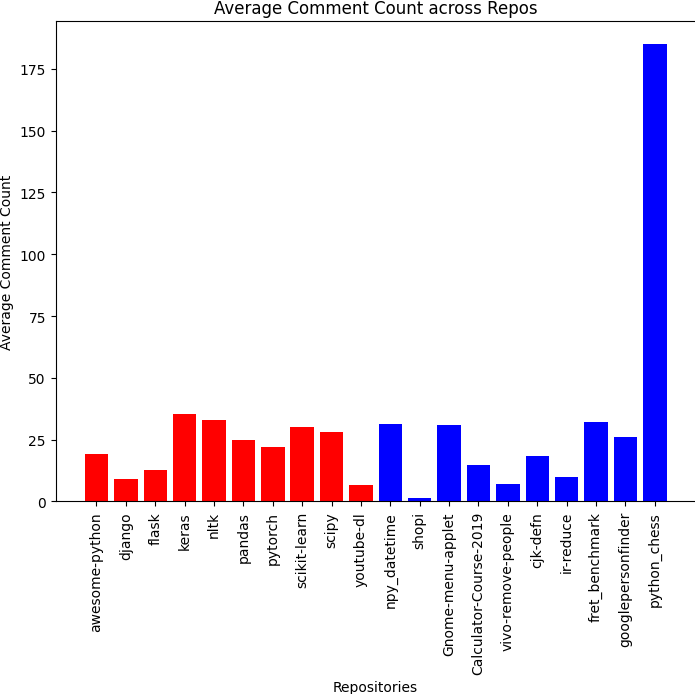
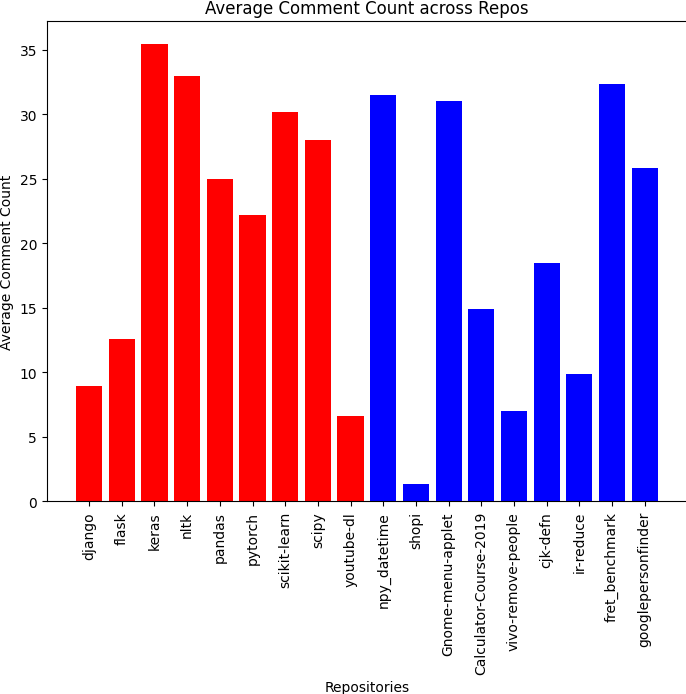
som graphs

Changed region(s): [[0.0306, 0.0303, 0.9796, 0.9683], [0.3061, 0.0, 0.7653, 0.0303], [0.4592, 0.9683, 0.6122, 1.0]]

diff --git a/github-repo-analysis/github_gloss.py b/github-repo-analysis/github_gloss.py
@@ -17,28 +17,38 @@ test_code = "def function_name(par_1, parTwo, camelCase)\n\t\"\"\"\n\tdocstring 
 # Use AST package for better parsing! 
 
 def count_casing(input_code):
-  case_dict = {"camelCase":0,
-               "snake_case":0}
-  camel = r"[a-z]+([A-Z][a-z0-9]+)+"
-  snake = r"[a-z]+(_[a-z0-9]+)+"
-  input_code = input_code.replace("("," ")
-  input_code = input_code.replace(")"," ")
-  for token in input_code.split():
-    if re.match(camel, token):
-      case_dict["camelCase"] += 1
-    elif re.match(snake, token):
-      case_dict["snake_case"] += 1
-  return case_dict
+    case_dict = {"lowerCamelCase": 0, "UpperCamelCase": 0, "snake_case": 0}
+    lower_camel = r"[a-z]+([A-Z][a-z0-9]+)+"
+    upper_camel = r"[A-Z][a-z]+([A-Z][a-z0-9]+)+"
+    snake = r"[a-z]+(_[a-z0-9]+)+"
+    input_code = input_code.replace("(", " ")
+    input_code = input_code.replace(")", " ")
+    for token in input_code.split():
+        if re.match(lower_camel, token):
+            case_dict["lowerCamelCase"] += 1
+        elif re.match(upper_camel, token):
+            case_dict["UpperCamelCase"] += 1
+        elif re.match(snake, token):
+            case_dict["snake_case"] += 1
+    return case_dict
+
 
 def count_docstrings(input_code):
-  docstr = r"\"\"\"[\s\S]*?\"\"\""
-  search = re.findall(docstr, input_code)
-  return search
+    docstr = r"\"\"\"[\s\S]*?\"\"\"|\'\'\'[\s\S]*?\'\'\'"
+    search = re.findall(docstr, input_code)
+    doc_len = 0
+    for docstring in search:
+        doc_len += len(docstring)
+    return len(search), doc_len
+
 
 def count_comments(input_code):
-  comment = r"#.*"
-  search = re.findall(comment, input_code)
-  return search
+    comment = r"#.*"
+    search = re.findall(comment, input_code)
+    comment_len = 0
+    for comment in search:
+        comment_len += len(comment)
+    return len(search), comment_len
 
 # test the regex searching methods:
 # print(f"Casing  count: {count_casing(test_code)}")
@@ -80,20 +90,17 @@ def repo_probe(directory):
               line_count += sum([1 for _ in code.split("\n")])
 
               # calculate stats
-              comments = count_comments(code)
-              num_comments = len(comments)
-
-              docstrings = count_docstrings(code)
-              num_docstrings = len(docstrings)
+              num_comments, comments_lengths = count_comments(code)
+              num_docstrings, docstring_lengths = count_docstrings(code)
 
               if num_comments: # if there were any comments in this file; update
                 comment_count  += num_comments
-                comment_length += sum([len(com)for com in comments])/num_comments
+                comment_length += comments_lengths/num_comments
                 comment_density += num_comments / line_count
               
               if num_docstrings: 
                 docstring_count  += num_docstrings
-                docstring_length += sum([len(doc)for doc in docstrings])/num_docstrings
+                docstring_length += docstring_lengths/num_docstrings
                 docstring_density += num_docstrings / line_count
 
               eval_dict['casing_count'] += Counter(count_casing(code))
@@ -114,8 +121,9 @@ repo_evals = {}
 personal = ["npy_datetime", "shopi", "Gnome-menu-applet", "Calculator-Course-2019", "vivo-remove-people", "cjk-defn", "ir-reduce", "fret_benchmark", "googlepersonfinder", "python_chess"]
 professional =  ['awesome-python', 'django', 'flask', 'keras', 'nltk', 'pandas', 'pytorch', 'scikit-learn', 'scipy', 'youtube-dl']
 all_repos =  professional + personal
+all_repos_normal = [repo for repo in all_repos if repo not in ['awesome-python', 'python_chess'] ] 
 
-for repo in all_repos:
+for repo in all_repos_normal:
   print(f"Scanning repo {repo}...")
   path = "data/"+repo
   repo_evals[repo] = repo_probe(path)
@@ -141,5 +149,12 @@ def graph_stats(x , y, title, x_axis, y_axis, path):
 for stat in repo_evals["npy_datetime"]:
   if stat != "casing_count":
     title = " ".join(stat.split('_')).title()
-    graph_stats(all_repos, eval_df.loc[stat,], title +" across Repos", "Repositories", title, "graphs/"+stat)
+    graph_stats(all_repos_normal, eval_df.loc[stat,], title +" across Repos", "Repositories", title, "graphs/"+stat)
 
+snake_case = [lookup['snake_case'] for lookup in eval_df.loc['casing_count']]
+lower_camel_case = [lookup['lowerCamelCase'] for lookup in eval_df.loc['casing_count']]
+upper_camel_case = [lookup['UpperCamelCase'] for lookup in eval_df.loc['casing_count']]
+
+graph_stats(all_repos_normal, snake_case, "Snake Case count" +" across Repos", "Repositories", "Snake Case count", "graphs/"+"Snake-Case-count")
+graph_stats(all_repos_normal, lower_camel_case, "lower Camel Case count" +" across Repos", "Repositories", "lower Camel Case count", "graphs/"+"lower-Case-count")
+graph_stats(all_repos_normal, upper_camel_case, "Upper Camel Case count" +" across Repos", "Repositories", "Upper Camel Case count", "graphs/"+"upper-Case-count")
